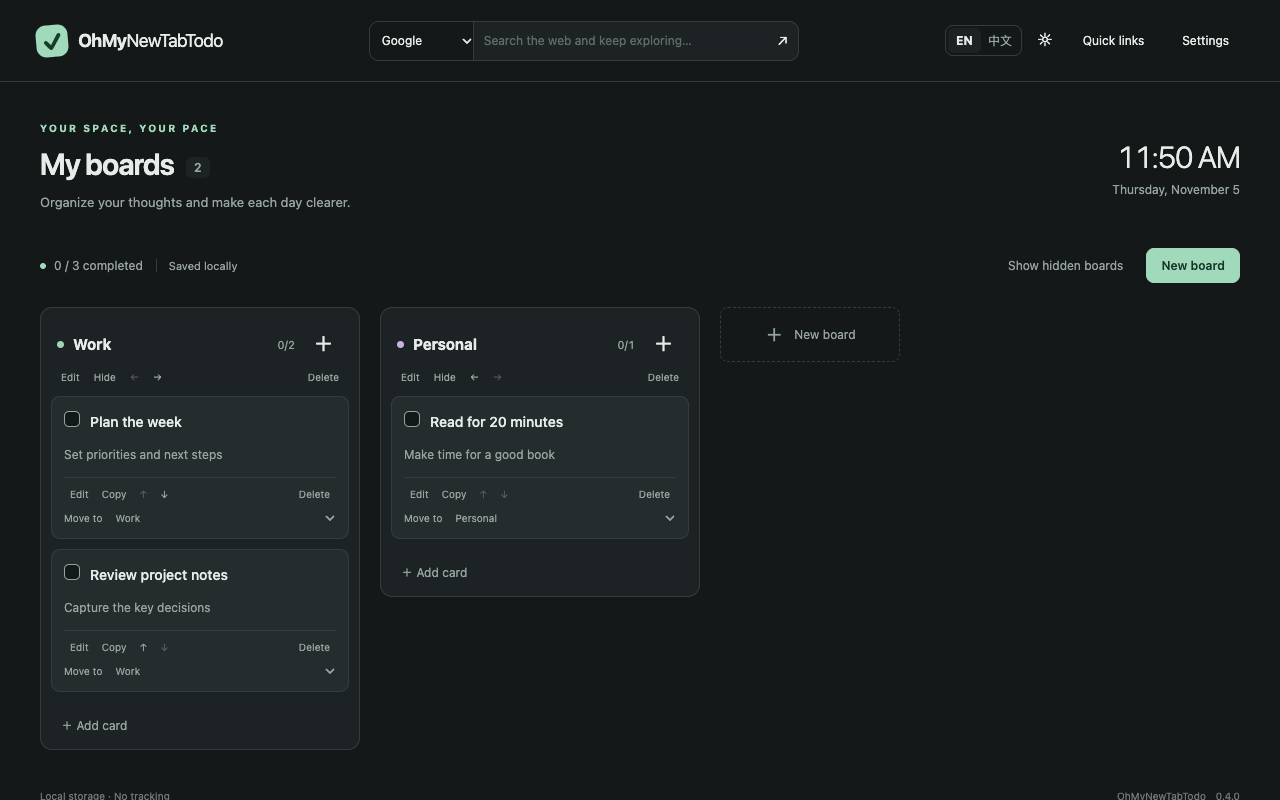
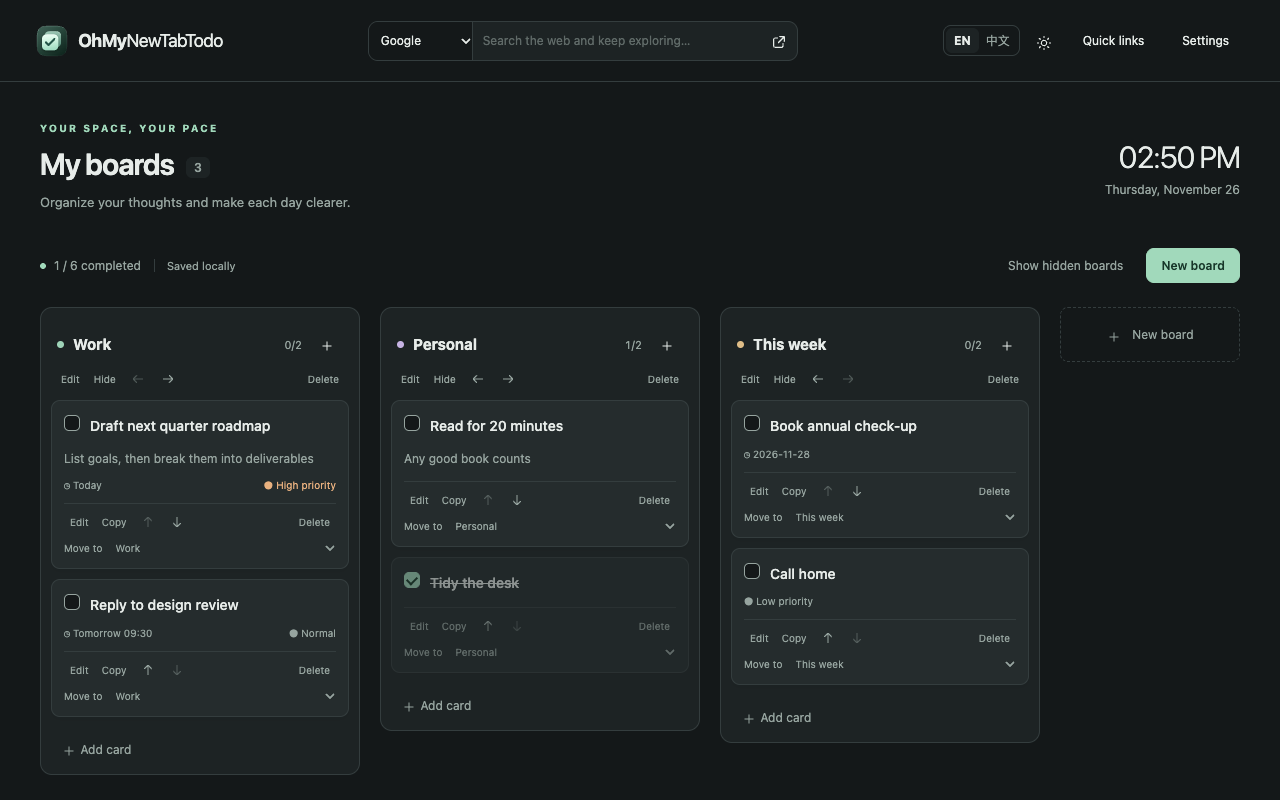
docs: recapture Chrome Web Store screenshots from the v0.5.0 build
Add scripts/capture-store-shots.mjs, which loads the built extension with
synthetic boards and cards and writes 1280x800 store screenshots in both
languages plus optional light-theme variants. Replace the 2026-11-05
screenshots that predated the final icons and due dates, and update the
store checklist and release verification accordingly.

diff --git a/docs/verification-v0.5.0.md b/docs/verification-v0.5.0.md
@@ -17,7 +17,7 @@
 | v0.5.0 `npm run check`（合并 `origin/main` 含 PR #7、#8 之后）/ after merging `origin/main` with PR #7 and #8 | 通过：prettier 检查、`tsc` 两个项目、Vite 构建、**71 项单元测试**（71 过 / 0 败）、**46 项 Chromium 浏览器测试**（46 过）。浏览器测试含提醒 4 项、图标 1 项、外部接口 8 项（含重启测试）。构建提示 `src/client.ts` 同时被静态与动态导入的 Vite 警告，不影响产物。/ Passed: prettier, both `tsc` projects, Vite build, **71 unit tests** (71 pass / 0 fail), and **46 Chromium browser tests** (46 pass), including 4 reminder, 1 icon, and 8 external-interface tests with the restart case. Vite warns that `src/client.ts` is both statically and dynamically imported; the output is unaffected. |
[1 lines of base64/hex data omitted]
 | 版本一致性 / Version alignment | `package.json`、lockfile、manifest、`src/model.ts`、首页与关于页统一为 `0.5.0`；发布 tag 应为 `v0.5.0`。/ Package, lockfile, manifest, model constant, homepage, and About all read `0.5.0`; the release tag must be `v0.5.0`. |
-| 合成截图 / Synthetic screenshots | 新增 `docs/images/due-reminders-{zh,en}.png`、`reminder-settings-{zh,en}.png`、`external-file-{zh,en}.png` 与 `icon-redesign-preview.png`，均为隔离浏览器与合成数据。商店截图 `docs/store/images/screenshot-*.png` 摄于 2026-11-05，早于最终图标与提醒设置，**提交商店前必须重拍**。/ New feature screenshots use isolated browsers and synthetic data. The store screenshots predate the final icons and reminder settings and must be recaptured before store submission. |
+| 合成截图 / Synthetic screenshots | 新增 `docs/images/due-reminders-{zh,en}.png`、`reminder-settings-{zh,en}.png`、`external-file-{zh,en}.png` 与 `icon-redesign-preview.png`，均为隔离浏览器与合成数据。商店截图 `docs/store/images/screenshot-{zh,en}.png` 于 2026-11-26 用 v0.5.0 构建重拍（`node scripts/capture-store-shots.mjs`），另附浅色变体。/ New feature screenshots use isolated browsers and synthetic data. The store screenshots were recaptured from the v0.5.0 build with the capture script, plus light-theme variants. |
 | 双语文档 / Paired documentation | README、features、CHANGELOG、Release notes、PRIVACY（新增英文全文）同步刷新，覆盖提醒、外部接口、图标与商店材料；隐私说明更新权限、通知内容与外部快照。/ Paired README/features, CHANGELOG, release notes, and PRIVACY (now fully bilingual) cover reminders, the external interface, icons, and store materials, including permissions, notification content, and external snapshots. |
 | 条件文档 / Conditional review | `docs/releasing.md` 增加 Chrome Web Store 提交步骤；AGENTS、贡献指南、开发命令、发布工作流、依赖和许可证无变化，无需修改。自有通知图标纳入白名单资源。/ The release checklist gains the Chrome Web Store step; contributor guidelines, commands, workflows, dependencies, and licenses are unchanged. The owned notification icon is an allowlisted asset. |
 
@@ -29,7 +29,7 @@
 | Tag / 发布工作流 / Release workflow | [v0.5.0 工作流](https://github.com/sdzcgaoxiang/OhMyNewTabTodo/actions/runs/45753811988) 的 `verify`（tag 版本核对、`npm run check`、打包）与 `publish` 作业均通过；发布作业核对同一安装包的 SHA-256 后上传。/ Both `verify` and `publish` jobs passed; the publish job verified the artifact checksum before uploading. |
 | GitHub Release | [v0.5.0 Release](https://github.com/sdzcgaoxiang/OhMyNewTabTodo/releases/tag/v0.5.0) 已于 2026-11-26 04:20 UTC 发布，含中英文说明（与 `docs/releases/v0.5.0.md` 逐行一致）、ZIP 与 `SHA256SUMS.txt`。/ Published with bilingual notes identical to `docs/releases/v0.5.0.md` and both expected assets. |
[1 lines of base64/hex data omitted]
-| Chrome Web Store | 待办：从 Release 下载同一 ZIP 并复核、用 v0.5.0 构建重拍中英文截图、在 Dashboard 填写隐私字段并提交；审核与上架状态另行记录。/ Pending: download the released ZIP, recapture both screenshots from the v0.5.0 build, complete the dashboard privacy fields, and submit; review and listing status are recorded separately. |
+| Chrome Web Store | 待办：从 Release 下载同一 ZIP 并复核、在 Dashboard 填写隐私字段并提交（截图已于 2026-11-26 重拍）；审核与上架状态另行记录。/ Pending: download the released ZIP, complete the dashboard privacy fields, and submit (screenshots recaptured on 2026-11-26); review and listing status are recorded separately. |
 
 将本地和已发布 ZIP 的 14 个条目逐一比较，文件名及解压后的字节均相同；归档时间不同，因此 ZIP SHA-256 不同（本地 `cab4f9f7…`，发布 `661bf25c…`）。/ All fourteen local and published ZIP entries match by name and extracted bytes. Archive timestamps differ, so the ZIP hashes differ.
 

diff --git a/docs/store/README.md b/docs/store/README.md
@@ -6,10 +6,11 @@
 
[1 lines of base64/hex data omitted]
 - 扩展图标：`public/icons/128.png`，也已包含在扩展包中。
-- 中文截图：`docs/store/images/screenshot-zh.png`；英文截图：`docs/store/images/screenshot-en.png`。均为 1280×800，使用合成任务数据。
-- 可选小宣传图：`docs/store/images/promo-440x280.png`。
+- 中文截图：`docs/store/images/screenshot-zh.png`；英文截图：`docs/store/images/screenshot-en.png`。均为 1280×800，2026-11-26 用 v0.5.0 构建重拍（含新图标、截止日期、优先级与已完成卡片），只使用合成任务数据。另附可选浅色主题变体 `screenshot-zh-light.png` / `screenshot-en-light.png`；商店最多 5 张 1280×800，可按需上传。
+- 可选小宣传图：`docs/store/images/promo-440x280.png`（2026-11-05 制作，深色主题）。
+- 重拍截图：先 `npm run build`，再 `node scripts/capture-store-shots.mjs`，脚本会加载 `dist/` 中的扩展、注入合成数据并输出上述四张截图。
 
-注意：**提交前必须重拍截图。** 现有两张截图摄于 2026-11-05，当时图标重绘尚未完成（主题切换仍显示 `☼` 文字符号，看板移动箭头也是文字），且不含 v0.5.0 新增的截止日期与提醒设置。请用 v0.5.0 构建和合成数据重拍中英文截图后再上传。不要使用本地 `release/` 目录中的历史测试包（它们与 GitHub Release 附件不是同一份文件），只上传 Release 附件。商店后续更新需递增版本。现有解压安装与商店安装通常具有不同的扩展身份和独立存储；迁移前应从旧安装导出完整备份，在商店版导入并核对后再考虑移除旧安装。
+注意：不要使用本地 `release/` 目录中的历史测试包（它们与 GitHub Release 附件不是同一份文件），只上传 Release 附件。商店后续更新需递增版本号并重拍截图。现有解压安装与商店安装通常具有不同的扩展身份和独立存储；迁移前应从旧安装导出完整备份，在商店版导入并核对后再考虑移除旧安装。
 
 ## 商店介绍：简体中文
 
@@ -70,5 +71,5 @@ Google 参考文档：[图片要求](https://developer.chrome.com/docs/webstore/
 
 - `npm run check`：格式、类型检查和构建通过；71 项单元测试、46 项 Chromium 浏览器测试通过。详见 [v0.5.0 验收记录](../verification-v0.5.0.md)。
[1 lines of base64/hex data omitted]
-- 已核对宣传图（440×280）、截图（1280×800）及扩展图标（16/32/48/128）尺寸。商店截图摄于 2026-11-05，早于最终图标与提醒设置，提交前需重拍；尚未进行 Chrome Web Store 审核。
+- 已核对宣传图（440×280）、截图（1280×800）及扩展图标（16/32/48/128）尺寸。截图于 2026-11-26 用 v0.5.0 构建重拍并目视检查（新图标、截止日期、优先级、已完成卡片均正确）；尚未进行 Chrome Web Store 审核。
 - 历史记录：2026-11-05 基于 0.4.0 的本地测试 ZIP（13 个文件，SHA-256 `44222e61…14f86`）已被 v0.5.0 取代，不要再使用。
